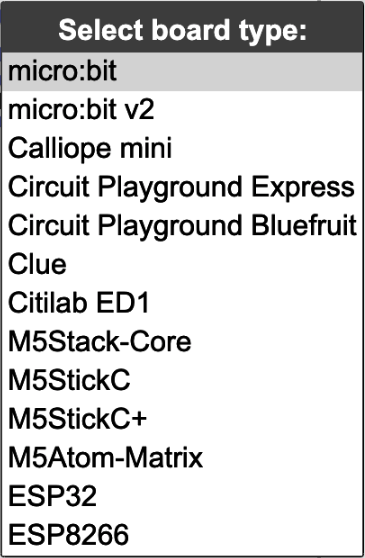
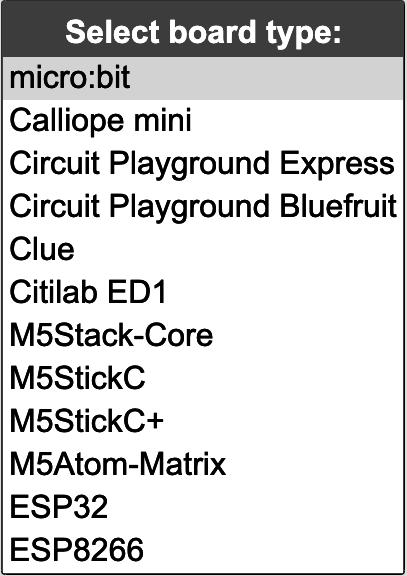
Update firmware install menu. Fix CPX video link.

Changed region(s): [[0.0, 0.0, 1.0, 1.0], [0.0, 0.0, 0.0301, 0.0305]]

diff --git a/data/markdown/setup-cpx.md b/data/markdown/setup-cpx.md
@@ -19,7 +19,7 @@ Firmware installation takes just a few seconds.
 If you are running the MicroBlocks app, MicroBlocks will connect to the board automatically
 when it is done.
 
-[This video](https://www.youtube.com/watch?v=V4u2_GN8JnU) shows these steps.
+[This video](https://www.youtube.com/watch?v=UN-pkP5oqLw) shows these steps.
 
 **Extra Steps in Browser**
 
